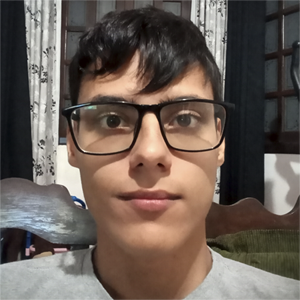
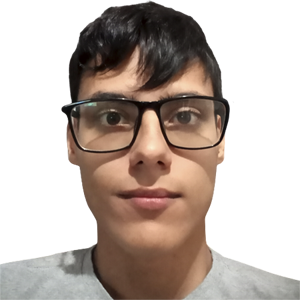
Tirei o fundo da imagem; Arrumei o font-weight do Link-Nav

diff --git a/src/static/css/style.css b/src/static/css/style.css
@@ -67,11 +67,11 @@ nav div{
 
 .linkNav,
 .linkNav:any-link:hover{
-    font-weight: 700
+    font-weight: 1000
 }
 
 .linkNav:any-link{
-    font-weight: 100;
+    font-weight: 500;
     text-decoration: none
 }
 
